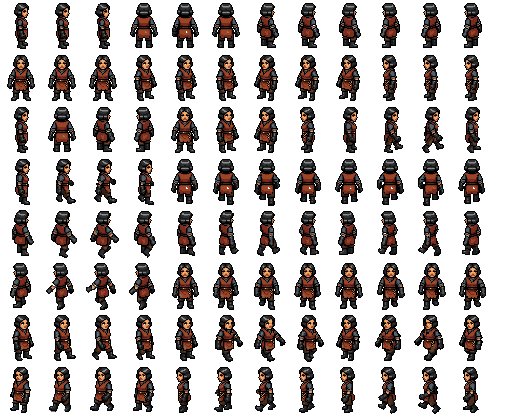
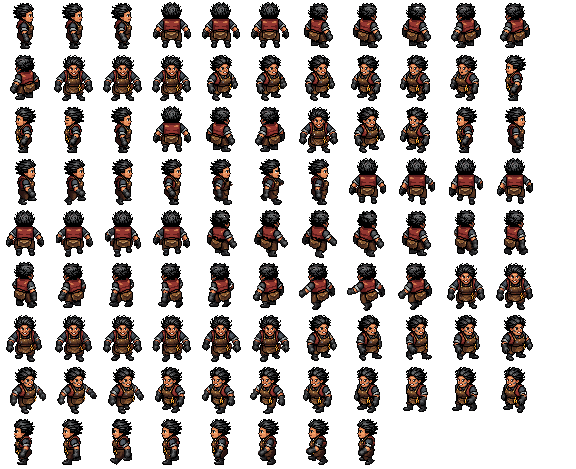
Repack Luli's sheet from the new base
Claude-Session: https://claude.ai/code/session_01H8JDTPYztrZvUL5HBCK6eR

diff --git a/scripts/art/topdown/pack-sheets.ts b/scripts/art/topdown/pack-sheets.ts
@@ -726,8 +726,8 @@ const ROSTER: readonly FigureSpec[] = [
     name: 'luli',
     key: 'npc.luli',
     folder: 'rg02_luli',
-    idle: 'custom-standing at rest: the chest an@0ed9f4',
-    walk: 'walking-8-frames@80d797',
+    idle: 'custom-standing at rest: the chest an@2632a4',
+    walk: 'walking-8-frames@19a291',
     stride: 30,
     actions: {},
     timing: 'blow',

diff --git a/src/content/assets/topdownSheets.ts b/src/content/assets/topdownSheets.ts
@@ -751,7 +751,7 @@ export const TOPDOWN_SHEETS: Readonly<Record<TopdownName, TopdownSheetData>> = {
   },
   luli: {
     pages: 1,
-    frame: { w: 40, h: 51 },
+    frame: { w: 48, h: 51 },
     anchor: { x: 0.5, y: 0.941176 },
     footprint: 1,
     idleCels: [3, 3, 3, 3, 3, 3, 3, 3],
